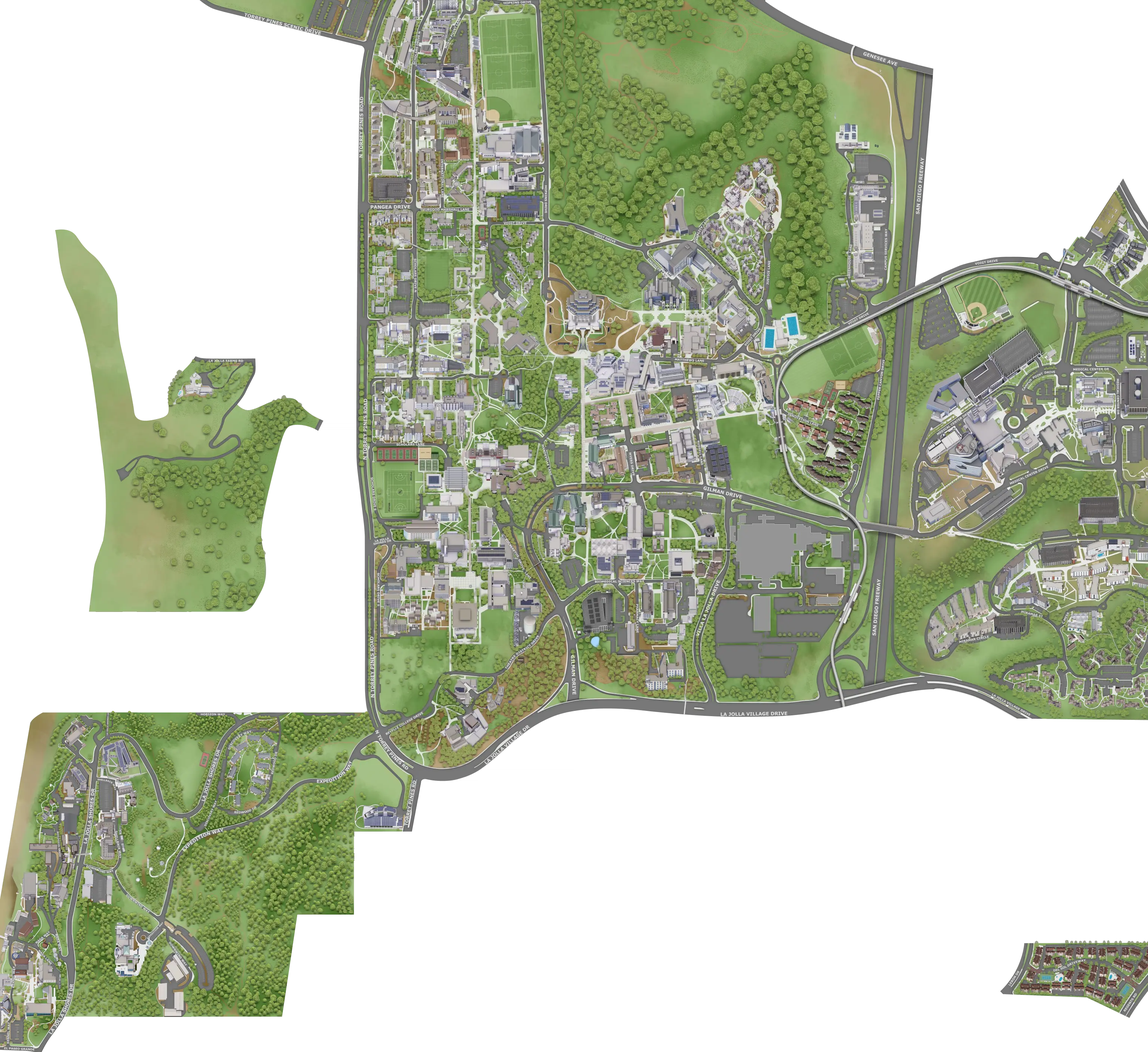
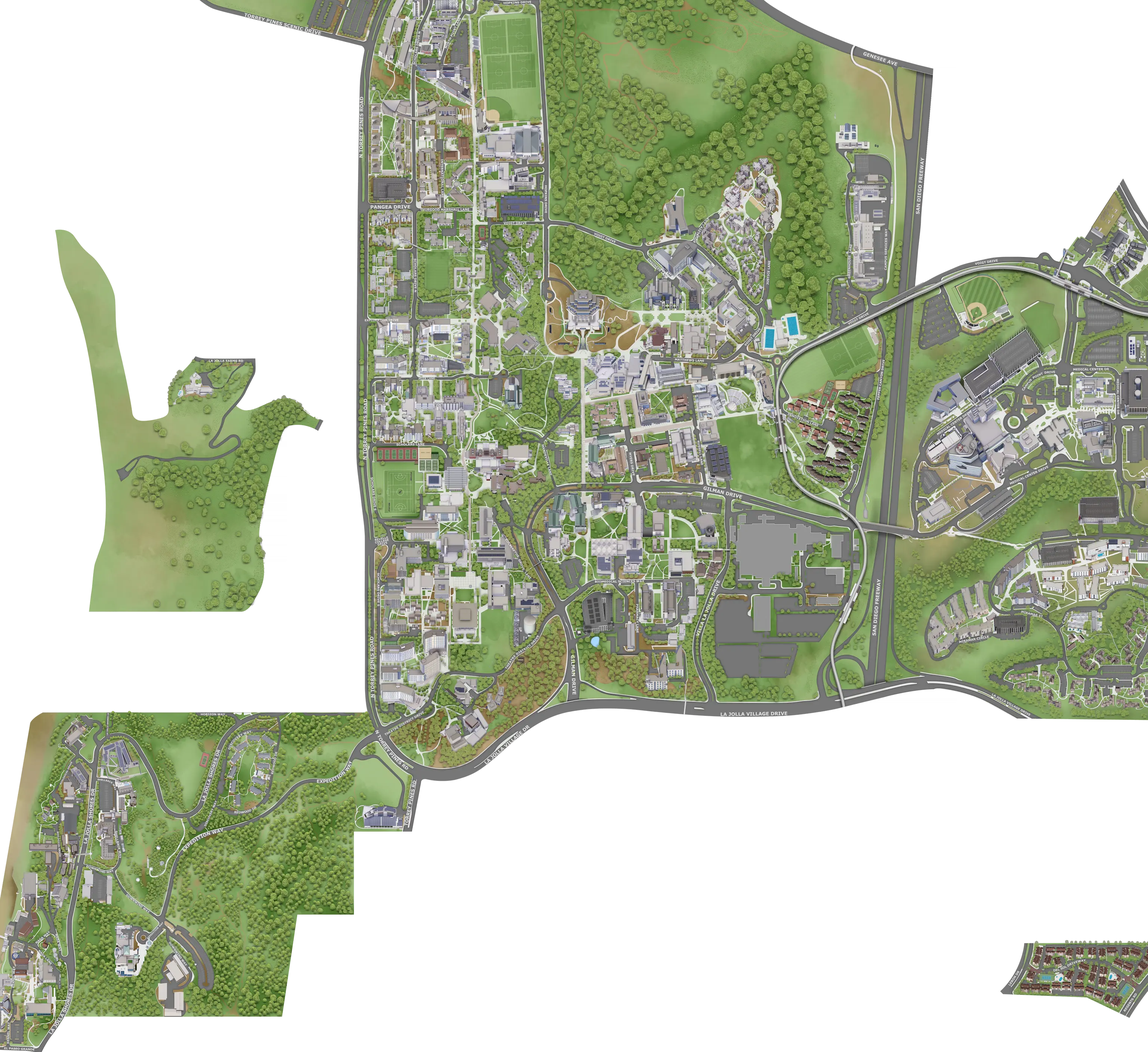
Update map for Eighth College 🥴

Changed region(s): [[0.3125, 0.5938, 0.4062, 0.6875]]

diff --git a/classrooms/public/styles.css b/classrooms/public/styles.css
@@ -934,6 +934,10 @@ input[type='checkbox']:checked {
   background-image: linear-gradient(120deg, #e9b418, #d09228);
   color: white;
 }
+.college-eighth {
+  background-image: linear-gradient(120deg, #6c2ab3, #46206f);
+  color: white;
+}
 .college-pepperCanyon {
   background-image: linear-gradient(120deg, #068a96, #08484e);
   color: white;

diff --git a/classrooms/lib/now.ts b/classrooms/lib/now.ts
@@ -49,7 +49,7 @@ function toPT (date: Date): Moment {
 }
 
 function getNow (): Moment {
-  return toPT(new Date(2023, 1, 10, 15, 10)) // TEMP
+  return toPT(new Date())
 }
 
 /**

diff --git a/README.md b/README.md
@@ -88,7 +88,7 @@ $ deno task classrooms:build
 $ ./scripts/deploy.sh ./classrooms/public/ classrooms
 ```
 
-Map image was made with [this tool](https://sheeptester.github.io/words-go-here/misc/ucsd-map.html) (zoom 17, x: -6 to 5, y: -6 to 4)
+Map image was made with [this tool](https://sheeptester.github.io/words-go-here/misc/ucsd-map.html) (zoom 17, x: -6 to 5, y: -6 to 4). Because the map is now HD, please scale the image down to 3072 by 2816.
 
 Current uses:
 
